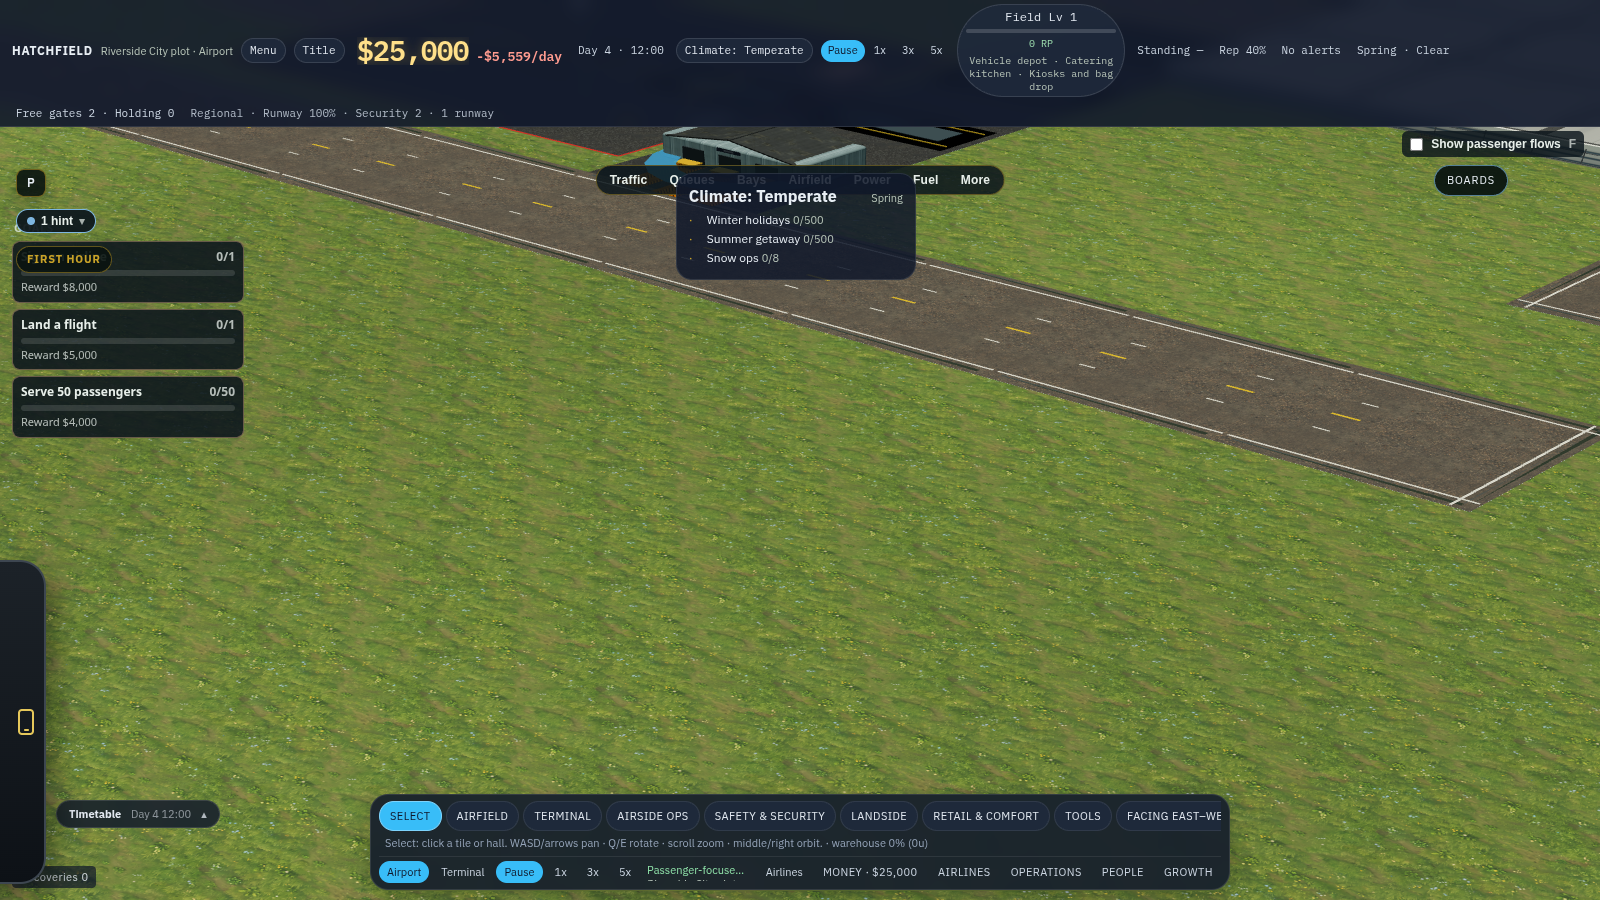
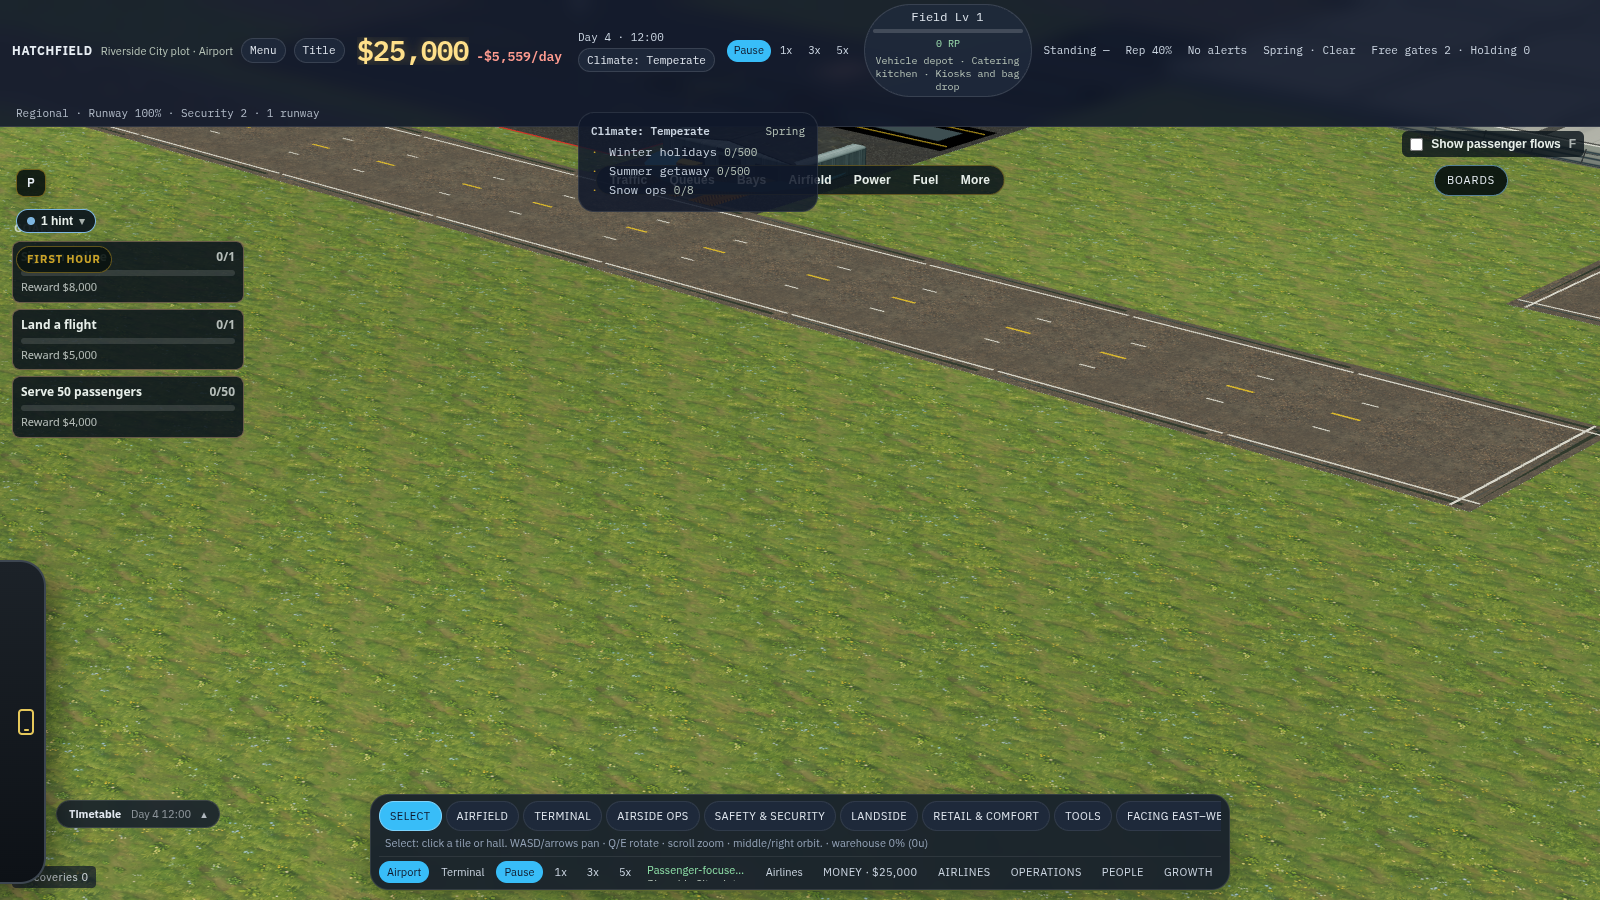
Park the climate chip under the clock so the HUD bar stays one row.
A separate header chip pushed the vitals stat onto a second line that sat on the info strip.

diff --git a/src/ui/Hud.tsx b/src/ui/Hud.tsx
@@ -409,10 +409,9 @@ export function Hud({ game, onNewGame }: { game: Game; onNewGame?: () => void })
             </div>
           ) : null}
         </div>
-        <div className="stat" title="One day is a 180-second cycle">
+        <div className="stat clock-climate" title="One day is a 180-second cycle">
           <LiveText testId="hud-clock" read={() => formatSimDate(game.clock)} />
-        </div>
-        {game.site ? (
+          {game.site ? (
           <div className="climate-dock">
             <button
               type="button"
@@ -449,7 +448,8 @@ export function Hud({ game, onNewGame }: { game: Game; onNewGame?: () => void })
               </aside>
             ) : null}
           </div>
-        ) : null}
+          ) : null}
+        </div>
         <SpeedButtons game={game} speed={game.speed} className="speeds stat-speeds" />
         <FieldBadge
           progress={xp}

diff --git a/src/index.css b/src/index.css
@@ -3159,6 +3159,14 @@ h1.game-title::after {
   line-height: 1.4;
 }
 
+.clock-climate {
+  display: flex;
+  flex-direction: column;
+  align-items: flex-start;
+  gap: 2px;
+  position: relative;
+}
+
 .climate-dock {
   position: relative;
   display: flex;
@@ -3171,7 +3179,7 @@ h1.game-title::after {
 
 .map-goals {
   position: absolute;
-  top: calc(100% + 110px);
+  top: calc(100% + 40px);
   left: 0;
   bottom: auto;
   width: min(240px, 78vw);

diff --git a/src/ui/hud-chrome.css b/src/ui/hud-chrome.css
@@ -342,7 +342,7 @@
 .hud .map-goals {
   left: 0;
   bottom: auto;
-  top: calc(100% + 110px);
+  top: calc(100% + 40px);
   width: min(240px, 70vw);
   background: rgb(15 23 42 / 0.86);
   border: 1px solid rgb(255 255 255 / 0.1);
